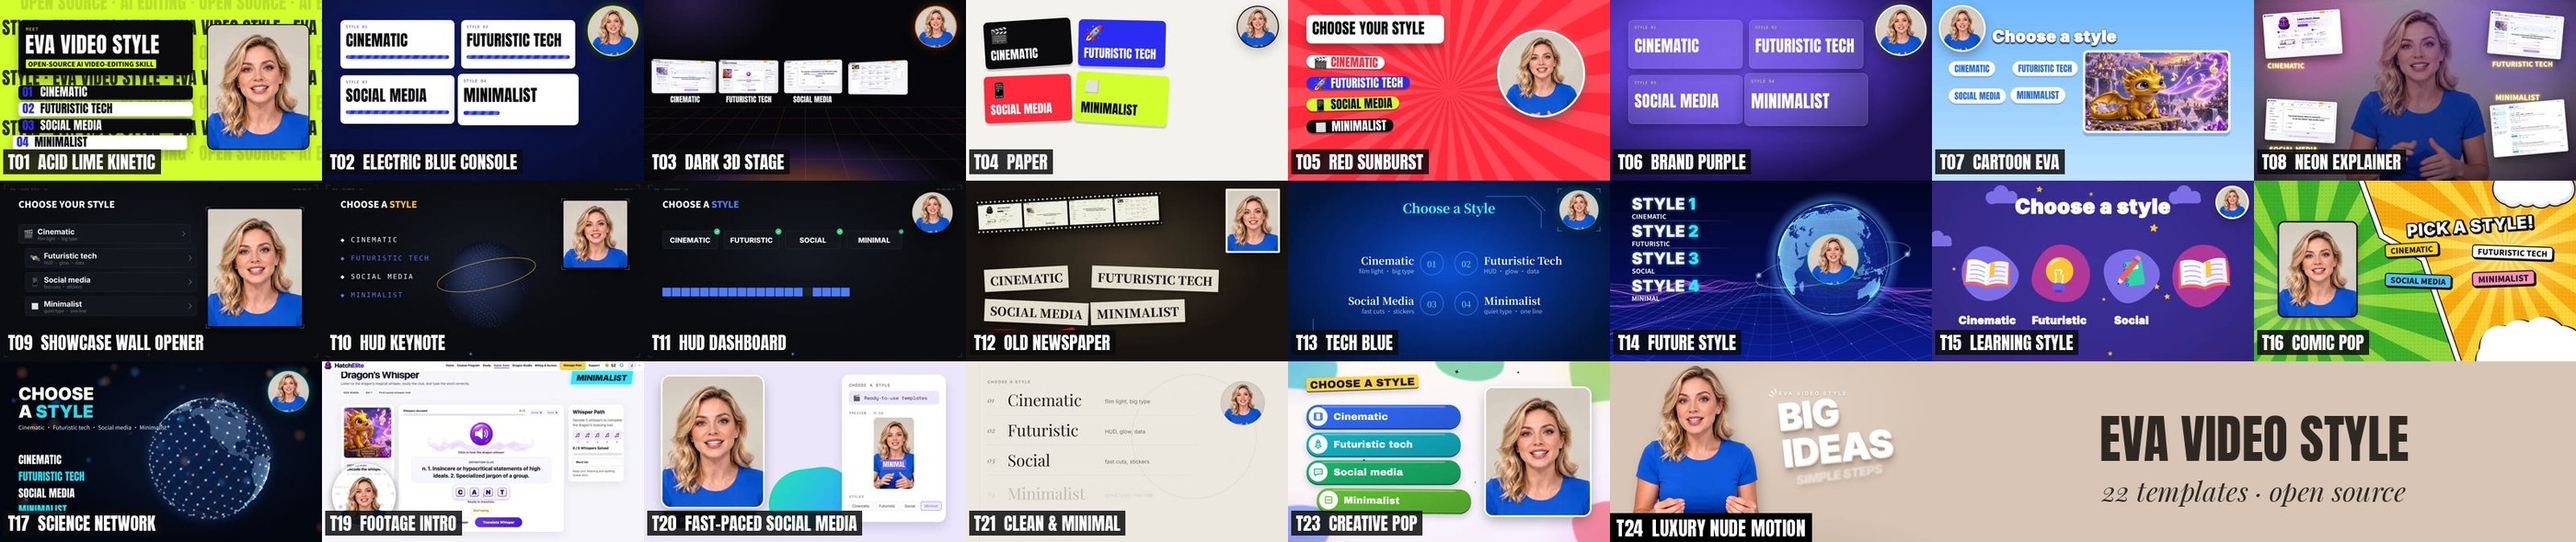
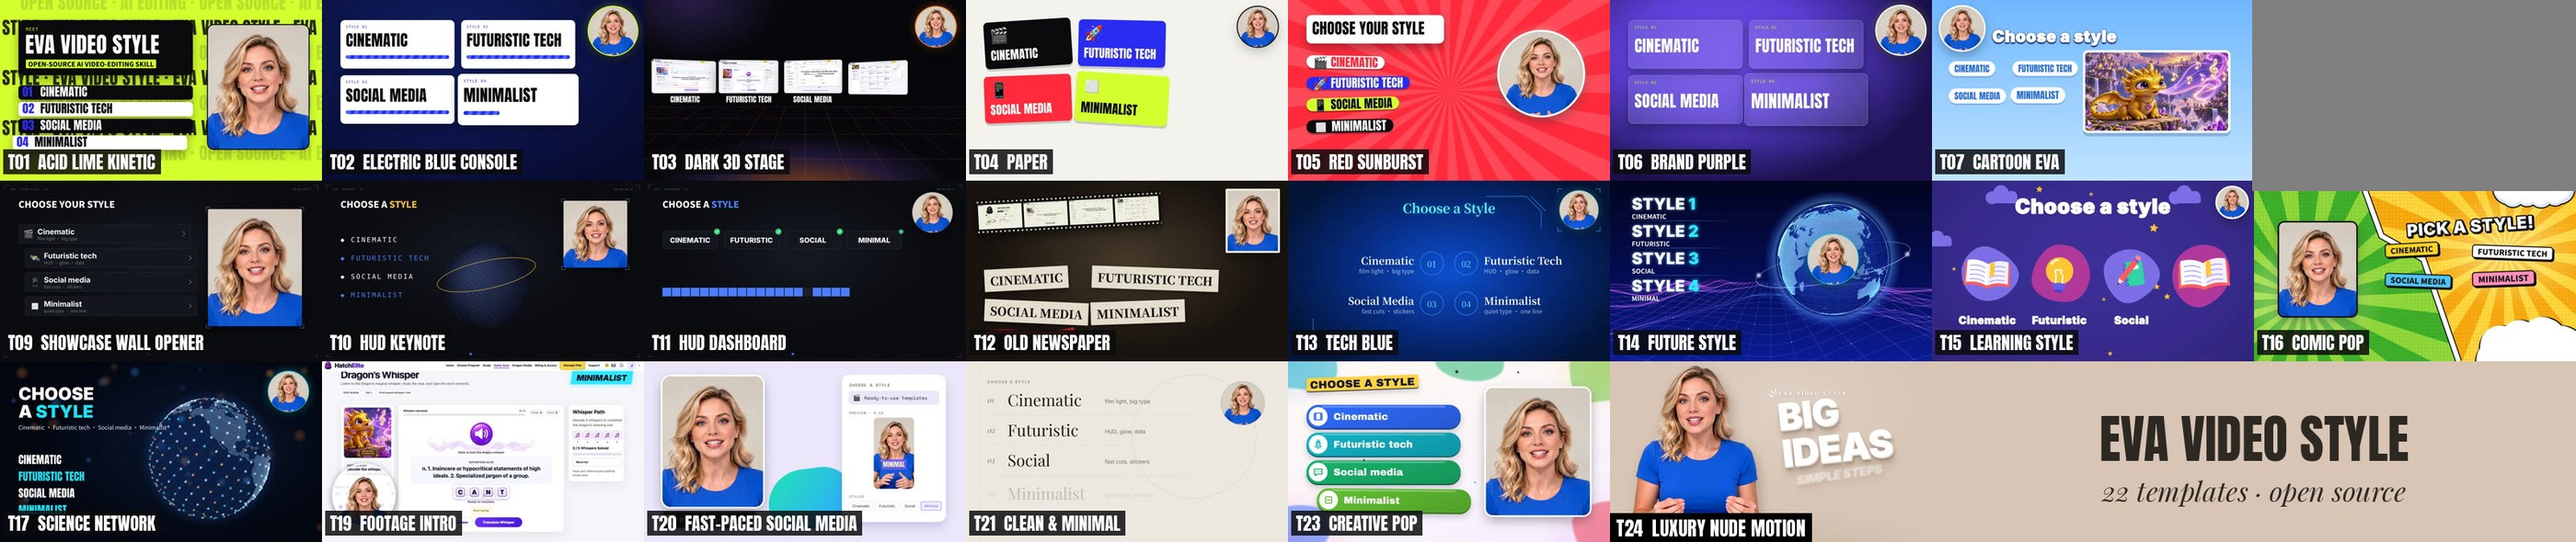
docs: remove T08 from demo showcase

Changed region(s): [[0.87, 0.0, 1.0, 0.3661]]

diff --git a/README.md b/README.md
@@ -26,7 +26,6 @@ Every demo is the same 15-second self-introduction by an AI-generated presenter,
 | T05 | Red Sunburst | [EN](https://github.com/RoverEva/eva-video-style/releases/download/v1.0.0/Eva_Template_T05_RedSunburst_EN.mp4) | [CN + EN](https://github.com/RoverEva/eva-video-style/releases/download/v1.0.0/Eva_Template_T05_RedSunburst_CN-EN.mp4) |
 | T06 | Brand Purple | [EN](https://github.com/RoverEva/eva-video-style/releases/download/v1.0.0/Eva_Template_T06_BrandPurple_EN.mp4) | [CN + EN](https://github.com/RoverEva/eva-video-style/releases/download/v1.0.0/Eva_Template_T06_BrandPurple_CN-EN.mp4) |
 | T07 | Cartoon Eva | [EN](https://github.com/RoverEva/eva-video-style/releases/download/v1.0.0/Eva_Template_T07_CartoonEva_EN.mp4) | [CN + EN](https://github.com/RoverEva/eva-video-style/releases/download/v1.0.0/Eva_Template_T07_CartoonEva_CN-EN.mp4) |
-| T08 | Neon Explainer | [EN](https://github.com/RoverEva/eva-video-style/releases/download/v1.0.0/Eva_Template_T08_NeonExplainer_EN.mp4) | [CN + EN](https://github.com/RoverEva/eva-video-style/releases/download/v1.0.0/Eva_Template_T08_NeonExplainer_CN-EN.mp4) |
 | T09 | Showcase Wall Opener | [EN](https://github.com/RoverEva/eva-video-style/releases/download/v1.0.0/Eva_Template_T09_ShowcaseWall_EN.mp4) | [CN + EN](https://github.com/RoverEva/eva-video-style/releases/download/v1.0.0/Eva_Template_T09_ShowcaseWall_CN-EN.mp4) |
 | T10 | HUD Keynote | [EN](https://github.com/RoverEva/eva-video-style/releases/download/v1.0.0/Eva_Template_T10_HUDKeynote_EN.mp4) | [CN + EN](https://github.com/RoverEva/eva-video-style/releases/download/v1.0.0/Eva_Template_T10_HUDKeynote_CN-EN.mp4) |
 | T11 | HUD Dashboard | [EN](https://github.com/RoverEva/eva-video-style/releases/download/v1.0.0/Eva_Template_T11_HUDDashboard_EN.mp4) | [CN + EN](https://github.com/RoverEva/eva-video-style/releases/download/v1.0.0/Eva_Template_T11_HUDDashboard_CN-EN.mp4) |
@@ -42,7 +41,7 @@ Every demo is the same 15-second self-introduction by an AI-generated presenter,
 | T23 | Creative Pop | [EN](https://github.com/RoverEva/eva-video-style/releases/download/v1.0.0/Eva_Template_T23_CreativePop_EN.mp4) | [CN + EN](https://github.com/RoverEva/eva-video-style/releases/download/v1.0.0/Eva_Template_T23_CreativePop_CN-EN.mp4) |
 | T24 | Luxury Nude Motion | 5-second sample: [video](https://github.com/RoverEva/eva-video-style/releases/download/v1.0.0/Eva_Template_T24_LuxuryNude.mp4) | [frames](references/templates.md#t24--luxury-nude-motion) |
 
-> The Demo section above is the original showcase and is preserved unchanged, including its historical template counts and presentation. The official v1.0.0 installable package inventory contains the 23 templates listed below.
+> The Demo section keeps the original GIF, Demo Reel, Music Montage, collage placement and all other demo links. T08 Neon Explainer has been removed from this showcase. Historical counts still visible in the original GIF and collage title card refer to the original presentation; the official v1.0.0 installable package inventory contains the 23 templates listed below.
 
 ```text
 Install EVA Core once
@@ -69,7 +68,7 @@ The release scope is T01–T07, T09–T17, T19–T21, T23–T24 and T26–T27. T
 
 ## v1.0.0 installable templates
 
-This table is the current modular package inventory. The original showcase above remains unchanged, and no demo video or image was regenerated, deleted or overwritten.
+This table is the current modular package inventory. Apart from the owner-directed T08 removal, the original showcase above remains unchanged; no other demo video or image was regenerated, deleted, renamed or overwritten.
 
 | ID | Template | Formats | Existing preview | Package |
 |---|---|---|---|---|
